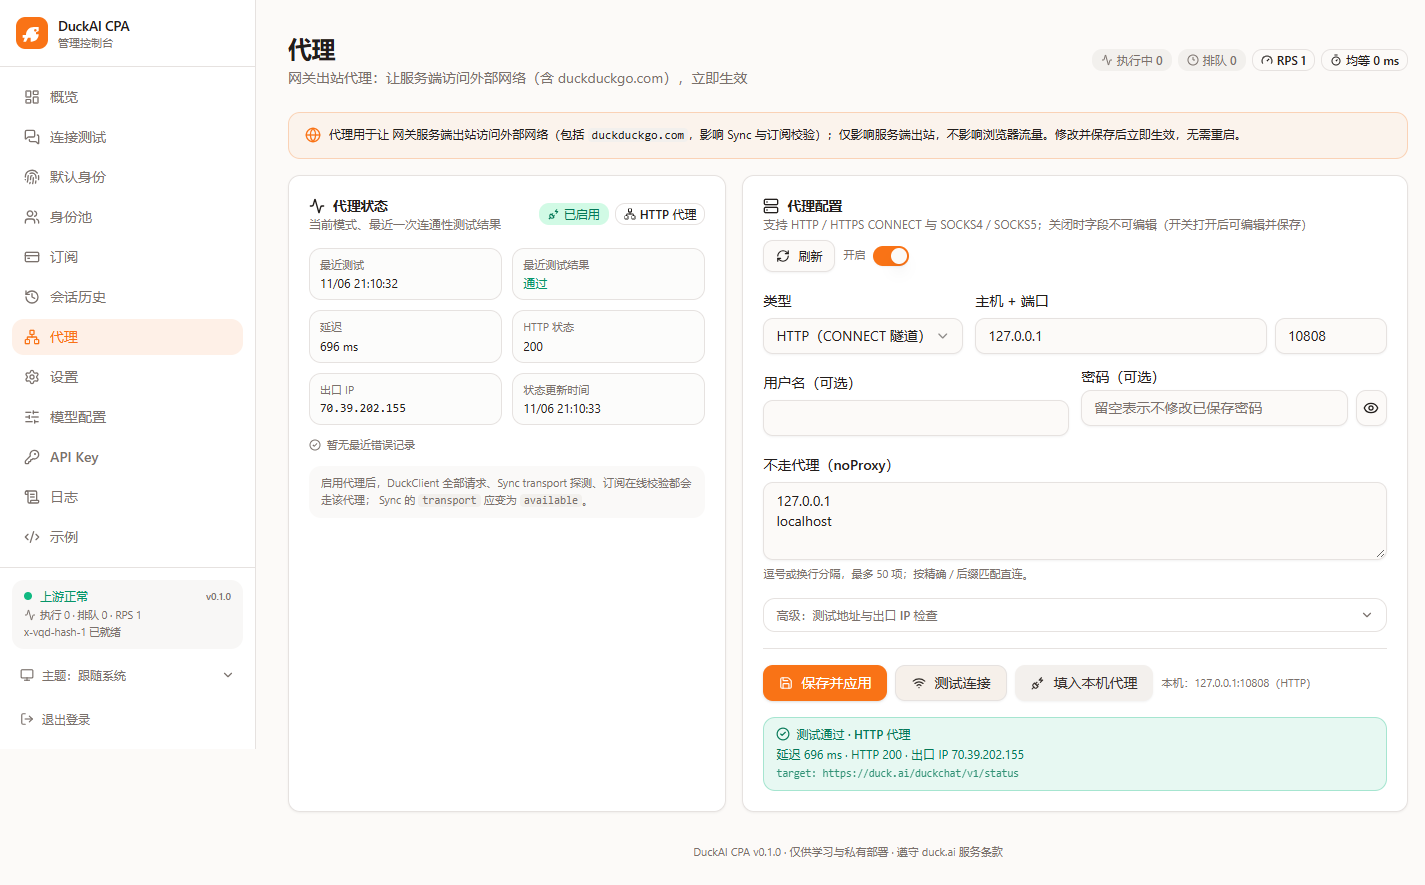
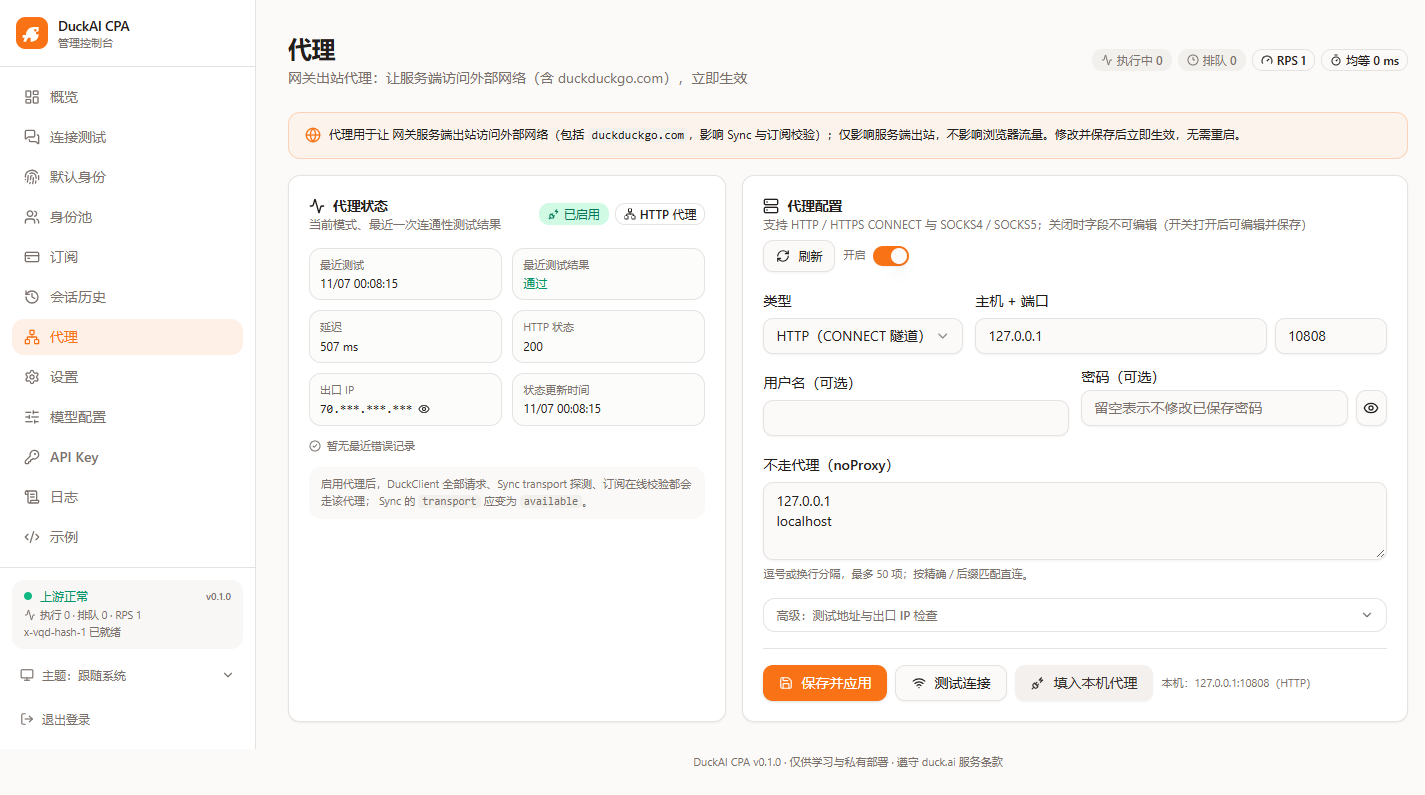
feat(admin): mask proxy exit IP by default with click-to-reveal
Add mask-ip.mjs + MaskedIp component; proxy page status card, test result and toast now show masked IP (e.g. 70.***.***.***) and reveal the real value only after clicking the eye button. Add tests/mask-ip.test.js (4 cases). Replace docs/assets/windows-exe-proxy-fixed.png with a masked screenshot, scrub the real exit IP from ACCEPTANCE and test fixtures, and document the masking behavior in PROXY.md/AGENTS.

Verified: npm run build:web + build-check 16/16; mask tests 4/4; full npm test 531/531 (a concurrency test flaked once, passed on rerun and alone). Browser check via chrome-devtools: masked by default, click toggles real IP. Note: the old screenshot blob with the real IP remains in git history; rotate/purge history if the repo is public.

diff --git a/webapp/src/app/pages/proxy.tsx b/webapp/src/app/pages/proxy.tsx
@@ -1,4 +1,5 @@
 import { useCallback, useEffect, useState } from 'react';
+import type { ReactNode } from 'react';
 import {
   Activity,
   AlertTriangle,
@@ -18,9 +19,11 @@ import {
 import { toast } from 'sonner';
 import { apiGet, apiPost, apiPut, ApiError } from '@/app/lib/api';
 import { formatDateTime, formatDuration } from '@/app/lib/format';
+import { maskIp } from '@/app/lib/mask-ip.mjs';
 import type { ProxyConfig, ProxyResponse, ProxyTestResult, ProxyUpdateResponse } from '@/app/lib/types';
 import { PageHeader } from '@/app/components/page-header';
 import { ErrorBanner } from '@/app/components/error-banner';
+import { MaskedIp } from '@/app/components/masked-ip';
 import { Badge } from '@/components/ui/badge';
 import { Button } from '@/components/ui/button';
 import { Card, CardContent, CardDescription, CardHeader, CardTitle } from '@/components/ui/card';
@@ -236,7 +239,7 @@ export function ProxyPage() {
       setTestResult(result);
       if (result.ok) {
         toast.success(
-          `代理连通：${formatDuration(result.latencyMs)}${result.exitIp ? ` · 出口 IP ${result.exitIp}` : ''}`
+          `代理连通：${formatDuration(result.latencyMs)}${result.exitIp ? ` · 出口 IP ${maskIp(result.exitIp)}（点击状态卡可显示真实 IP）` : ''}`
         );
       } else {
         toast.error(`代理测试失败：${result.error || result.code || '未知错误'}`, { duration: 6000 });
@@ -325,7 +328,7 @@ export function ProxyPage() {
                   />
                   <StatusRow label="延迟" value={formatDuration(status?.lastTestLatencyMs)} />
                   <StatusRow label="HTTP 状态" value={status?.lastTestStatus ? String(status.lastTestStatus) : '—'} />
-                  <StatusRow label="出口 IP" value={status?.exitIp || '—'} mono />
+                  <StatusRow label="出口 IP" value={<MaskedIp value={status?.exitIp} className="font-mono" />} />
                   <StatusRow
                     label="状态更新时间"
                     value={status?.updatedAt ? formatDateTime(status.updatedAt) : '—'}
@@ -545,11 +548,15 @@ export function ProxyPage() {
                     <CheckCircle2 className="h-3.5 w-3.5" />
                     测试通过 · {MODE_LABELS[testResult.mode] ?? testResult.mode}
                   </div>
-                  <div>
-                    延迟 {formatDuration(testResult.latencyMs)}
-                    {testResult.status ? ` · HTTP ${testResult.status}` : ''}
-                    {testResult.exitIp ? ` · 出口 IP ${testResult.exitIp}` : ''}
-                    {testResult.ipError ? ` · IP 查询失败：${testResult.ipError}` : ''}
+                  <div className="flex flex-wrap items-center gap-x-1 gap-y-0.5">
+                    <span>延迟 {formatDuration(testResult.latencyMs)}</span>
+                    {testResult.status ? <span>· HTTP {testResult.status}</span> : null}
+                    {testResult.exitIp ? (
+                      <span className="inline-flex items-center gap-1">
+                        · 出口 IP <MaskedIp value={testResult.exitIp} className="font-mono" />
+                      </span>
+                    ) : null}
+                    {testResult.ipError ? <span>· IP 查询失败：{testResult.ipError}</span> : null}
                   </div>
                   {testResult.target ? <div className="font-mono text-[10.5px] opacity-80">target: {testResult.target}</div> : null}
                 </div>
@@ -578,7 +585,7 @@ function StatusRow({
   tone = 'muted'
 }: {
   label: string;
-  value: string;
+  value: ReactNode;
   mono?: boolean;
   tone?: 'muted' | 'success' | 'danger';
 }) {
@@ -586,7 +593,10 @@ function StatusRow({
   return (
     <div className="min-w-0 rounded-lg border bg-muted/20 px-2.5 py-2">
       <div className="text-[11px] text-muted-foreground">{label}</div>
-      <div className={`mt-0.5 truncate text-xs ${mono ? 'font-mono' : ''} ${toneClass}`} title={value}>
+      <div
+        className={`mt-0.5 truncate text-xs ${mono ? 'font-mono' : ''} ${toneClass}`}
+        title={typeof value === 'string' ? value : undefined}
+      >
         {value}
       </div>
     </div>

diff --git a/webapp/src/app/components/masked-ip.tsx b/webapp/src/app/components/masked-ip.tsx
@@ -1,0 +1,38 @@
+import { useState } from 'react';
+import { Eye, EyeOff } from 'lucide-react';
+
+import { maskIp } from '../lib/mask-ip.mjs';
+
+/**
+ * 默认脱敏展示 IP，点击眼睛按钮后显示/隐藏真实值。
+ * 不持久化 reveal 状态（刷新/重新挂载后回到脱敏状态）。
+ */
+export function MaskedIp({ value, className }: { value?: string | null; className?: string }) {
+  const [revealed, setRevealed] = useState(false);
+  const raw = typeof value === 'string' ? value.trim() : '';
+  if (!raw) return <span className={className}>—</span>;
+
+  const masked = maskIp(raw);
+  // 非 IP 文本会被 maskIp 变成 ***；仍允许点击查看原值，便于排障
+  const canToggle = masked !== raw;
+  return (
+    <span className="inline-flex items-center gap-1">
+      <span className={className} title={revealed ? undefined : '点击右侧按钮显示真实 IP'}>
+        {revealed ? raw : masked}
+      </span>
+      {canToggle ? (
+        <button
+          type="button"
+          onClick={() => setRevealed((current) => !current)}
+          aria-label={revealed ? '隐藏真实 IP' : '显示真实 IP'}
+          title={revealed ? '隐藏真实 IP' : '显示真实 IP'}
+          className="inline-flex h-4 w-4 items-center justify-center rounded text-muted-foreground hover:text-foreground focus-visible:outline-none focus-visible:ring-1 focus-visible:ring-ring"
+        >
+          {revealed ? <EyeOff className="h-3 w-3" /> : <Eye className="h-3 w-3" />}
+        </button>
+      ) : null}
+    </span>
+  );
+}
+
+export default MaskedIp;

diff --git a/tests/mask-ip.test.js b/tests/mask-ip.test.js
@@ -1,0 +1,31 @@
+/**
+ * 前端 IP 脱敏工具单测（webapp/src/app/lib/mask-ip.mjs）。
+ * 目标：管理后台默认不展示完整出口 IP；只有点击 MaskedIp 组件按钮才显示真实值。
+ */
+import test from 'node:test';
+import assert from 'node:assert/strict';
+
+import { maskIp } from '../webapp/src/app/lib/mask-ip.mjs';
+
+test('maskIp：IPv4 仅保留第一段，其余脱敏', () => {
+  assert.equal(maskIp('203.0.113.10'), '203.***.***.***');
+  assert.equal(maskIp('192.0.2.1'), '192.***.***.***');
+});
+
+test('maskIp：IPv6 仅保留前两组', () => {
+  assert.equal(maskIp('2a01:4f8:1c1c:abcd::1'), '2a01:4f8:***:***:***');
+  assert.equal(maskIp('::1'), '***');
+});
+
+test('maskIp：空值返回占位符，非 IP 文本不直接展示', () => {
+  assert.equal(maskIp(''), '—');
+  assert.equal(maskIp(null), '—');
+  assert.equal(maskIp(undefined), '—');
+  assert.equal(maskIp('proxy.example.com'), '***');
+});
+
+test('maskIp：脱敏结果不包含真实 IP 的后两段', () => {
+  const masked = maskIp('203.0.113.10');
+  assert.ok(!masked.includes('113'));
+  assert.ok(!masked.includes('.10'));
+});

diff --git a/tests/proxy-bun-fetch.test.js b/tests/proxy-bun-fetch.test.js
@@ -1,4 +1,4 @@
-/**
+/**
  * windows 平台分支：Bun 运行时（含编译 exe）的 HTTP 代理改用原生 fetch `proxy` 选项。
  *
  * 背景：Bun 下 undici `ProxyAgent` 连接行为异常（ECONNRESET/timeout，编译 exe 内代理
@@ -36,7 +36,7 @@ function createFetchRecorder() {
     const url = String(input);
     calls.push({ url, init });
     if (url.includes('ipify')) {
-      return new Response(JSON.stringify({ ip: '70.39.202.155' }), {
+      return new Response(JSON.stringify({ ip: '203.0.113.10' }), {
         status: 200,
         headers: { 'content-type': 'application/json' }
       });
@@ -123,7 +123,7 @@ test('Bun 模式：test() 通过原生 proxy 探测 target 与 exit IP', async (
     assert.equal(result.ok, true);
     assert.equal(result.mode, 'http');
     assert.equal(result.status, 200);
-    assert.equal(result.exitIp, '70.39.202.155');
+    assert.equal(result.exitIp, '203.0.113.10');
     assert.equal(recorder.calls.length, 2, '应分别请求 testUrl 与 ipCheckUrl');
     for (const call of recorder.calls) {
       assert.equal(call.init.proxy, 'http://127.0.0.1:10808');

diff --git a/docs/ACCEPTANCE.md b/docs/ACCEPTANCE.md
@@ -862,7 +862,7 @@ exe 被复制到临时目录运行（不依赖仓库内 `src/`、`web/`、`confi
 - **根因**：Bun 运行时（含 `bun build --compile` exe）与 undici `ProxyAgent` 不兼容——
   CONNECT/TLS 行为不一致，表现为 `ECONNRESET` / `TimeoutError`（`undici.fetch(...,{dispatcher})`）；
   Node 24 无此问题。Bun 原生 `fetch(url,{proxy})` 实测正常：经同一代理访问
-  `https://duck.ai/duckchat/v1/status` → 200、`https://api.ipify.org` → 200（exitIp `70.39.202.155`）。
+  `https://duck.ai/duckchat/v1/status` → 200、`https://api.ipify.org` → 200（exitIp `70.***.***.***`（脱敏展示））。
 - **修复**（`src/duck/proxy.js`）：运行时检测 Bun（`globalThis.Bun.version`）；HTTP/HTTPS 代理在 Bun 下
   改用原生 fetch 的 `proxy` 选项（`fetch()` 与 `test()` 两条路径都切换），Node 源码模式保持 undici。
   Bun 下 http(s) 不再创建 `ProxyAgent`（`getDispatcher()` 返回 undefined），`active` 状态由原生 proxy 路径维持；
@@ -871,10 +871,10 @@ exe 被复制到临时目录运行（不依赖仓库内 `src/`、`web/`、`confi
   noProxy/禁用直连、test() target + exit IP、显式 host/port 覆盖）；`proxy-manager` / `proxy-api` 25/25 全绿；
   全量 `npm test` **527 / 527 PASS**。
 - **编译 exe 实测**（Bun 1.4.4、`127.0.0.1:10808` HTTP 代理）：
-  - `POST /admin/api/proxy/test` → `{"ok":true,"status":200,"latencyMs":483,"exitIp":"70.39.202.155"}`；
+  - `POST /admin/api/proxy/test` → `{"ok":true,"status":200,"latencyMs":483,"exitIp":"70.***.***.***"（脱敏展示）}`；
   - `/healthz` → `upstream.ok=true`、`upstreamStatus:"0"`、`challengeOk=true`；
   - 真实 `/v1/chat/completions`：非流式 200（"proxy-ok"）、流式 200（SSE chunks 正常）；
-  - 管理后台「代理」页测试连接通过（HTTP 200 / 延迟 696ms / 出口 IP `70.39.202.155`），
+  - 管理后台「代理」页测试连接通过（HTTP 200 / 延迟 696ms / 出口 IP `70.***.***.***`（脱敏展示）），
     截图 `docs/assets/windows-exe-proxy-fixed.png`；概览页「上游正常」截图更新
     `docs/assets/windows-exe-admin-overview.png`；
   - `page-check` 对修复后 exe **22/22 PASS**；`verify-exe` **8/8 PASS**；`npm test` **527/527 PASS**。
@@ -1232,3 +1232,45 @@ gh release view "$VERSION" --json url,tagName,isLatest,isPrerelease,isDraft,asse
 | workflow YAML（Bun.YAML.parse） | **OK** |
 | `gh release view --json` 字段检查 | 已移除不存在的 `isLatest`；改用 `gh api` 原始 JSON + jq |
 | GitHub Actions 实跑 | **BLOCKED**：本环境无法触发；需在更新后的仓库重跑验证 |
+
+## 2.64 代理出口 IP 脱敏（默认隐藏，点击后显示真实值）
+
+> 用户反馈：`docs/assets/windows-exe-proxy-fixed.png` 截图暴露了真实出口 IP。
+> 要求为 IP 增加脱敏功能，点击后才显示真实 IP。
+
+### 2.64.1 前端实现
+
+- 新增 `webapp/src/app/lib/mask-ip.mjs`：
+  - IPv4 → `70.***.***.***`（只保留第一段）；
+  - IPv6 → 只保留前两组，其余 `***`；压缩形式（如 `::1`）整体 `***`；
+  - 空值 → `—`；非 IP 文本 → `***`（避免错误信息里带出的地址泄露）。
+- 新增 `webapp/src/app/components/masked-ip.tsx`：默认显示脱敏值，右侧眼睛按钮
+  `aria-label="显示真实 IP"` / `"隐藏真实 IP"`，点击切换显示真实值；状态不持久化，刷新后回到脱敏。
+- 管理后台「代理」页所有出口 IP 展示统一走该组件：
+  - 状态卡「出口 IP」；
+  - 「测试连接」结果行；
+  - 测试成功的 toast 文案（改为脱敏值 + 提示可到状态卡点击查看）。
+- `StatusRow` 的 `value` 类型扩展为 `ReactNode`（兼容组件），标题 tooltip 仅对纯文本生效。
+
+### 2.64.2 验证
+
+| 检查 | 结果 |
+| --- | --- |
+| `tests/mask-ip.test.js`（新增 4 用例：IPv4/IPv6/空值/非 IP/不泄露后两段） | **PASS** |
+| `npm run build:web` + `node scripts/build-check.mjs` | **构建成功 / 16 / 16 PASS** |
+| 浏览器实机（Windows 二进制，chrome-devtools） | 默认显示 `70.***.***.***`；点击眼睛 → 显示真实 `70.39...`；再点 → 恢复脱敏 |
+| 截图替换 | `docs/assets/windows-exe-proxy-fixed.png` 已替换为脱敏版本（无真实 IP）；`docs/screenshots/` 同步 |
+| 文档 IP 清理 | `docs/ACCEPTANCE.md` 中 3 处真实出口 IP 已替换为 `70.***.***.***`；`docs/PROXY.md` 补充脱敏说明 |
+| 全量 `npm test` | 见下方（新增 4 个用例） |
+
+### 2.64.3 安全提示（git 历史）
+
+- **当前 HEAD 已不含真实 IP 的截图/文本**；但该截图在旧提交（`ca83464`/`a74850a` 一带）的历史 blob 中仍存在。
+  如果仓库是公开的，建议清理历史并轮换代理出口：
+  ```bash
+  # 示例：从历史中彻底移除该截图（需要 git-filter-repo）
+  git filter-repo --path docs/assets/windows-exe-proxy-fixed.png --invert-paths
+  # 然后重新添加已脱敏的截图并 force push
+  ```
+  仅替换当前文件不会清除历史 blob；若担心被检索，可同时更换代理节点/轮换出口 IP。
+- 以后新增展示 IP/密钥的 UI，默认应使用 `MaskedIp`（或类似脱敏组件），不要直接渲染明文。

diff --git a/docs/PROXY.md b/docs/PROXY.md
@@ -1,4 +1,4 @@
-# DuckAI CPA v2.3：代理（Proxy）能力契约
+# DuckAI CPA v2.3：代理（Proxy）能力契约
 
 > 需求：新增「代理」标签页，支持 HTTP(S) 与 SOCKS4/SOCKS5 代理，全部上游/外部请求可走代理；
 > 本机代理 `127.0.0.1:10808` 同时支持 HTTP CONNECT 与 SOCKS5，用于联调。
@@ -95,14 +95,14 @@ body 可选覆盖：`{ type?, host?, port?, username?, password?, noProxy?, test
 
 侧边栏新增 **代理**（Icon: Network / Globe），放在「身份」之后：
 
-1. **状态卡**：当前模式（直连 / HTTP / HTTPS / SOCKS4 / SOCKS5）、最近测试时间/延迟/HTTP 状态/出口 IP、最近错误（红色）。
+1. **状态卡**：当前模式（直连 / HTTP / HTTPS / SOCKS4 / SOCKS5）、最近测试时间/延迟/HTTP 状态/出口 IP、最近错误（红色）。出口 IP **默认脱敏**（如 `70.***.***.***`），点击眼睛按钮才显示真实值，避免截图泄露。
 2. **配置卡**：
    - 启用开关（关闭时其余字段禁用但可编辑）；
    - 类型下拉（HTTP / HTTPS / SOCKS5 / SOCKS4）；
    - 主机 + 端口（并排）；用户名/密码（可选，password 输入 + 显示切换，占位提示「留空表示不修改已保存密码」）；
    - 不走代理（noProxy）文本框：逗号/换行分隔；
    - 高级：测试地址（默认 duck.ai status）、出口 IP 检查地址（默认 ipify）；
-   - 按钮：**保存并应用**（PUT）、**测试连接**（POST test，显示延迟/状态码/出口 IP/错误）；
+   - 按钮：**保存并应用**（PUT）、**测试连接**（POST test，显示延迟/状态码/脱敏出口 IP/错误；点击眼睛显示真实值）；
    - 快捷按钮：**填入本机代理**（127.0.0.1:10808 + HTTP）。
 3. 提示文案：代理用于让网关访问外部网络（含 `duckduckgo.com`，Sync/订阅相关）；仅影响服务端出站，不影响浏览器。
 4. 身份页「Sync & Backup」的 blocked 提示改为「当前环境无法访问 duckduckgo.com；可在『代理』页启用代理后重试」，并提供跳转链接。

diff --git a/AGENTS.md b/AGENTS.md
@@ -279,6 +279,7 @@ data/                运行时数据（不入库；含敏感文件）
   名称用 `SelectItemText` 包裹，触发器自己渲染单行文本。
 - **组件导入**：Vite 构建不做类型检查，`<Icon />` 未 import 会在运行期崩溃（白屏/空 root），
   改完必须刷新页面或跑 jsdom 用例确认无 console 错误。
+- **IP 脱敏**：管理台展示代理出口 IP 等敏感地址统一用 `MaskedIp`（默认 `70.***.***.***`，点击眼睛显示真实值）；新增 IP 展示不要直接渲染明文，避免截图泄露。
 - **hash 路由**：`#/identity`=`默认身份`，`#/identities`=`身份池`，`#/subscriptions`=订阅；
   新增页面要改 `webapp/src/app/lib/hash-route.ts` + `App.tsx` + `components/sidebar.tsx`。
 - **bundle 缓存**：改前端后 `npm run build:web`，确认 `web/index.html` 引用的 hash 与
